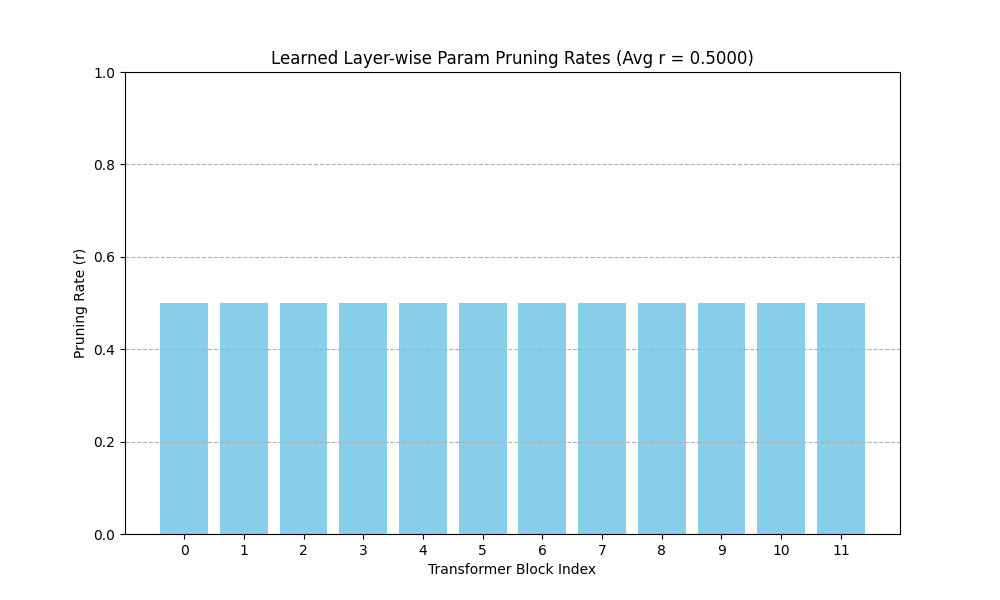
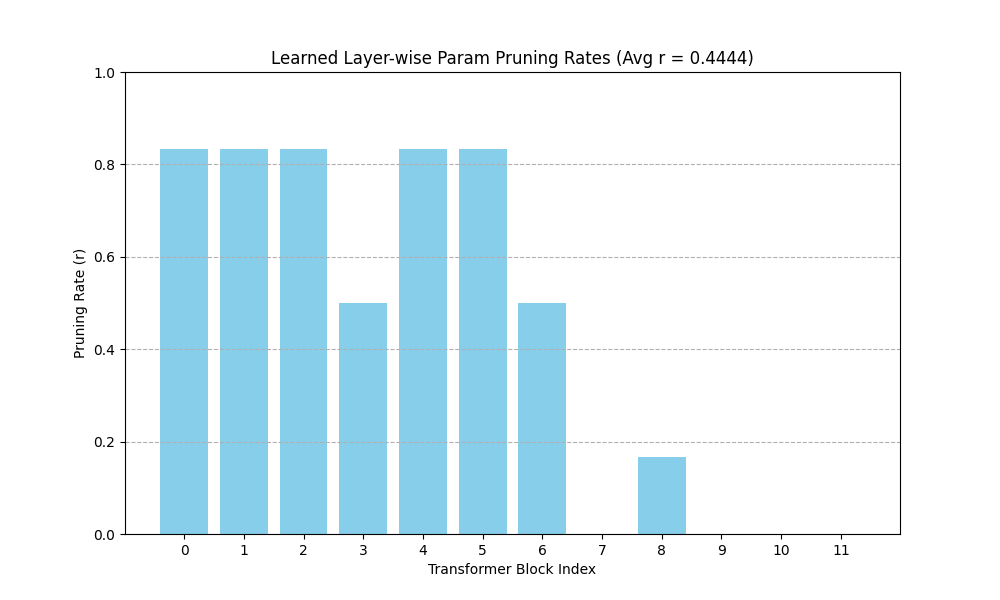
新增理论算法计算FLOPs

diff --git a/verify_flops_theoretical.py b/verify_flops_theoretical.py
@@ -1,0 +1,120 @@
+# verify_flops_theoretical.py
+import torch
+import os
+
+# --- 配置 ---
+MODEL_PATH = "re_pruner_finetuned_best_100class.pth"
+NUM_BLOCKS = 12
+BASE_EMBED_DIM = 384
+BASE_NUM_HEADS = 6
+INPUT_SIZE = 224
+PATCH_SIZE = 16
+
+def get_flops_for_block(num_heads, embed_dim, seq_len, mlp_ratio=4.0):
+    """
+    计算单个 Transformer Block 的理论 FLOPs
+    """
+    # 1. Norm1 + Norm2 (Element-wise)
+    # FLOPs = 2 * N * D (scale + shift) * 2 layers
+    flops_norm = 2 * seq_len * embed_dim * 2
+    
+    # 2. Multi-Head Attention (MHA)
+    head_dim = embed_dim // BASE_NUM_HEADS # 注意: head_dim 是固定的
+    curr_dim = num_heads * head_dim        # 当前层的实际投影维度
+    
+    # QKV Proj: [N, D] -> [N, 3 * curr_dim]
+    # Linear: N * D * (3 * curr_dim)
+    flops_qkv = seq_len * embed_dim * (3 * curr_dim)
+    
+    # Attention Matrix Compute: Q @ K.T -> [H, N, N]
+    # H * N * N * head_dim
+    flops_attn_score = num_heads * seq_len * seq_len * head_dim
+    
+    # Softmax: H * N * N (Exp + Sum + Div) -> 这里的FLOPs通常较小，有时忽略，这里粗略计为 3 ops
+    flops_softmax = num_heads * seq_len * seq_len * 3
+    
+    # Attention Weighted Sum: Attn @ V -> [H, N, head_dim]
+    # H * N * N * head_dim
+    flops_attn_val = num_heads * seq_len * seq_len * head_dim
+    
+    # Out Proj: [N, curr_dim] -> [N, D]
+    # N * curr_dim * D
+    flops_attn_proj = seq_len * curr_dim * embed_dim
+    
+    flops_mha = flops_qkv + flops_attn_score + flops_softmax + flops_attn_val + flops_attn_proj
+    
+    # 3. MLP
+    hidden_dim = int(embed_dim * mlp_ratio)
+    # FC1: [N, D] -> [N, 4D]
+    flops_fc1 = seq_len * embed_dim * hidden_dim
+    # GELU: N * 4D (近似)
+    flops_act = seq_len * hidden_dim
+    # FC2: [N, 4D] -> [N, D]
+    flops_fc2 = seq_len * hidden_dim * embed_dim
+    
+    flops_mlp = flops_fc1 + flops_act + flops_fc2
+    
+    return flops_mha, flops_mlp, flops_norm
+
+def main():
+    if not os.path.exists(MODEL_PATH):
+        print(f"错误: 找不到模型文件 {MODEL_PATH}")
+        return
+
+    # 加载 state_dict 分析每层的头数
+    state_dict = torch.load(MODEL_PATH, map_location="cpu")
+    
+    # 计算序列长度 (Class Token + 14x14 Patches)
+    num_patches = (INPUT_SIZE // PATCH_SIZE) ** 2
+    seq_len = num_patches + 1
+    
+    total_flops_orig = 0
+    total_flops_pruned = 0
+    
+    print(f"{'Layer':<6} | {'Heads':<6} | {'MHA FLOPs (M)':<15} | {'MLP FLOPs (M)':<15} | {'Total (M)':<10}")
+    print("-" * 70)
+    
+    for i in range(NUM_BLOCKS):
+        # 通过检查 qkv.weight 的形状推断保留的头数
+        # key 可能是 blocks.0.attn.qkv.weight
+        qkv_weight = state_dict.get(f"blocks.{i}.attn.qkv.weight")
+        if qkv_weight is None:
+            print(f"Block {i}: 无法找到权重，跳过")
+            continue
+            
+        # qkv_weight shape: [3 * num_heads * head_dim, embed_dim]
+        # 或者如果是分开的 q, k, v，逻辑类似。这里假设是合并的 qkv
+        out_features = qkv_weight.shape[0]
+        curr_dim = out_features // 3
+        head_dim = BASE_EMBED_DIM // BASE_NUM_HEADS
+        num_heads_kept = curr_dim // head_dim
+        
+        # 计算 原始 FLOPs
+        mha_orig, mlp_orig, _ = get_flops_for_block(BASE_NUM_HEADS, BASE_EMBED_DIM, seq_len)
+        block_flops_orig = mha_orig + mlp_orig
+        
+        # 计算 剪枝后 FLOPs
+        mha_pruned, mlp_pruned, _ = get_flops_for_block(num_heads_kept, BASE_EMBED_DIM, seq_len)
+        block_flops_pruned = mha_pruned + mlp_pruned # MLP 保持不变
+        
+        total_flops_orig += block_flops_orig
+        total_flops_pruned += block_flops_pruned
+        
+        print(f"{i:<6} | {num_heads_kept:<6} | {mha_pruned/1e6:<15.2f} | {mlp_pruned/1e6:<15.2f} | {block_flops_pruned/1e6:<10.2f}")
+
+    # 添加 Patch Embed 和 Head 的 FLOPs (未剪枝，固定开销)
+    # Patch Embed: Conv2d k=16, s=16, 3->384. H*W*Cin*Cout
+    flops_patch = num_patches * 3 * BASE_EMBED_DIM * (PATCH_SIZE**2)
+    # Head: 384 -> 100
+    flops_head = BASE_EMBED_DIM * 100
+    
+    total_flops_orig += (flops_patch + flops_head)
+    total_flops_pruned += (flops_patch + flops_head)
+    
+    print("-" * 70)
+    print(f"原始总 FLOPs: {total_flops_orig/1e9:.4f} G")
+    print(f"剪枝后总 FLOPs: {total_flops_pruned/1e9:.4f} G")
+    print(f"FLOPs 剩余比例: {total_flops_pruned / total_flops_orig * 100:.2f}%")
+
+if __name__ == "__main__":
+    main()

diff --git a/analyze_pruning.py b/analyze_pruning.py
@@ -12,8 +12,8 @@ from timm.models.vision_transformer import VisionTransformer, Block as TimmBlock
 from timm.layers import DropPath, Mlp, to_2tuple
 
 # --- 配置 ---
-PRUNED_MODEL_PATH = "re_pruner_PHYSICALLY_pruned.pth"
-PHASE2_MODEL_PATH = "re_pruner_phase2_pruned_formal_r_logit_100class_r0.5.pth" 
+PRUNED_MODEL_PATH = "re_pruner_finetuned_best_100class.pth"
+PHASE2_MODEL_PATH = "re_pruner_phase2_pruned_formal_theta_100class_r0.5.pth" 
 
 NUM_CLASSES = 100
 NUM_BLOCKS = 12
